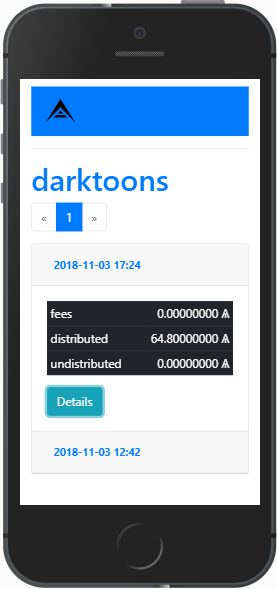
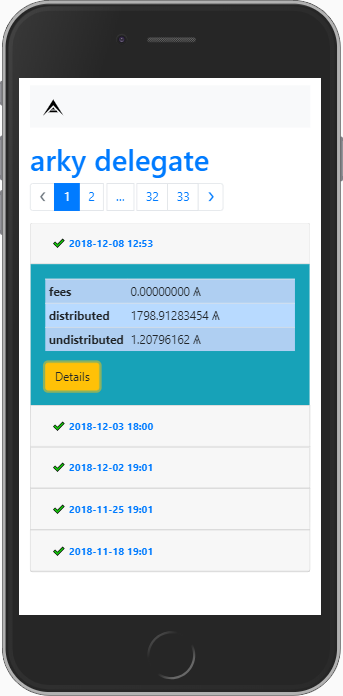
Delphinus release

diff --git a/zen/app/templates/history.html b/zen/app/templates/history.html
@@ -8,7 +8,7 @@
 		
 {%- if page_number > 0 %}
 <div class="container">
-	<h1><a href="/{{username}}">{{ username }}</a></h1>
+	<h1><a href="/{{username}}">{{ username }} delegate</a></h1>
 	<nav aria-label="payroll navigation">
 		<ul class="pagination">
 			<li class="page-item{{' disabled' if curent_page == 0 else ''}}">
@@ -81,7 +81,7 @@
 				>Details</button>
 <!-- Modal -->
 <div class="modal fade" id="details{{ name }}" tabindex="-1" role="dialog" aria-labelledby="modal{{ name }}" aria-hidden="true">
-	<div class="modal-dialog" role="document">
+	<div class="modal-dialog modal-lg" role="document">
 		<div class="modal-content">
 			<div class="modal-header">
 				<h5 class="modal-title" id="modal{{ name }}">Distribution details</h5>

diff --git a/zen/tbw.py b/zen/tbw.py
@@ -94,7 +94,7 @@ def init(**kwargs):
 	elif "usernames" in kwargs:
 		pkeys = []
 		for username in kwargs.pop("usernames", []):
-			req = dposlib.rest.GET.api.v2.delegates(username).get("data", {})
+			req = rest.GET.api.v2.delegates(username).get("data", {})
 			if len(req):
 				pkeys.append(req["publicKey"])
 
@@ -111,6 +111,8 @@ def init(**kwargs):
 		if getPublicKeyFromUsername(username):
 			config = loadJson("%s.json" % username)
 			config.update(**kwargs)
+			if not(config.get("fee_level", True)):
+				config.pop("fee_level", None)
 			dumpJson(config, "%s.json" % username)
 			logMsg("%s delegate set" % username)
 		else:
@@ -125,8 +127,8 @@ def init(**kwargs):
 def setDelegate(pkey, webhook_peer, public=False):
 	printNewLine()
 	# for each publicKey, get account data (merge delegate and wallet info)
-	req = dposlib.rest.GET.api.v2.delegates(pkey).get("data", {})
-	account = dposlib.rest.GET.api.v2.wallets(pkey).get("data", {})
+	req = rest.GET.api.v2.delegates(pkey).get("data", {})
+	account = rest.GET.api.v2.wallets(pkey).get("data", {})
 	account.update(req)
 
 	if account != {}:
@@ -139,7 +141,7 @@ def setDelegate(pkey, webhook_peer, public=False):
 		# create a webhook if no one is set
 		webhook = loadJson("%s-webhook.json" % username)
 		if not webhook.get("token", False):
-			data = dposlib.rest.POST.api.webhooks(
+			data = rest.POST.api.webhooks(
 				peer=webhook_peer,
 				event="block.forged",
 				target="http://%s:5000/block/forged" % (zen.PUBLIC_IP if public else "127.0.0.1"),
@@ -192,13 +194,14 @@ def askSecondSecret(account):
 
 
 def distributeRewards(rewards, pkey, minvote=0, excludes=[]):
-	totalCount, voters = 1, []
-	while len(voters) < totalCount:
-		req = dposlib.rest.GET.api.v2.delegates(pkey, "voters", offset=len(voters))
+	count, pageCount, voters = 0, 1, []
+	while count < pageCount:
+		req = rest.GET.api.v2.delegates(pkey, "voters", page=count+1)
 		if req.get("error", False):
 			raise Exception("Api error occured: %r" % req)
-		totalCount = req["meta"]["totalCount"]
+		pageCount = req["meta"]["pageCount"]
 		voters.extend(req.get("data", []))
+		count += 1
 		
 	voters = dict([v["address"], float(v["balance"])] for v in voters if v["address"] not in excludes and v["balance"] >= minvote)
 	total_balance = sum(voters.values())
@@ -291,19 +294,21 @@ def dumpRegistry(username):
 		for name in [n for n in os.listdir(folder) if n.endswith(".tbw")]:
 			tbw = loadJson(name, folder)
 			amount = tbw["distributed"]
+			fee_covered = (tbw["fees"]/0.1) > len(tbw["weight"])
 
-			registry = OrderedDict()
+			totalFees, registry = 0, OrderedDict()
 			for address, weight in sorted(tbw["weight"].items(), key=lambda e:e[-1], reverse=True):
 				transaction = dposlib.core.transfer(
 					round(amount*weight, 8), address,
 					config.get("vendorField", "%s reward" % username)
 				)
-				transaction.finalize(fee_included=True)
+				transaction.finalize(fee_included=not fee_covered)
+				totalFees += transaction["fee"]
 				registry[transaction["id"]] = transaction
 
 			if config.get("wallet", False):
 				transaction = dposlib.core.transfer(
-					round(tbw["delegate-share"]+tbw["fees"], 8),
+					round(tbw["delegate-share"] + tbw["fees"]-(totalFees if fee_covered else 0), 8),
 					config["wallet"], "%s share" % username
 				)
 				transaction.finalize(fee_included=True)
@@ -328,15 +333,15 @@ def broadcast(username, chunk_size=140):
 
 		for chunk in [transactions[x:x+chunk_size] for x in range(0, len(transactions), chunk_size)]:
 			waitFor(transactions[0]["senderPublicKey"])
-			response = dposlib.rest.POST.api.transactions(transactions=chunk)
+			response = rest.POST.api.transactions(transactions=chunk)
 			logMsg("Broadcasting chunk of transactions...\n%s" % json.dumps(response, indent=2))
-		time.sleep(dposlib.rest.cfg.blocktime)
+		time.sleep(rest.cfg.blocktime)
 
 		tries = 0
 		while len(registry) > 0 and tries < 5:
-			time.sleep(dposlib.rest.cfg.blocktime)
+			time.sleep(rest.cfg.blocktime)
 			for tx in [t for t in transactions if t["id"] in registry]:
-				if dposlib.rest.GET.api.v2.transactions(tx["id"]).get("data", {}).get("confirmations", 0) >= 1:
+				if rest.GET.api.v2.transactions(tx["id"]).get("data", {}).get("confirmations", 0) >= 1:
 					logMsg("transaction %(id)s <type %(type)s> applied" % registry.pop(tx["id"]))
 					cursor.execute(
 						"INSERT OR REPLACE INTO transactions(filename, timestamp, amount, address, id) VALUES(?,?,?,?,?);",
@@ -355,10 +360,10 @@ def broadcast(username, chunk_size=140):
 
 def waitFor(pkey):
 	logMsg("waiting for forger...")
-	rank = 51
+	rank = rest.cfg.delegate
 	while rank > 0:
-		time.sleep(16 if rank > 3 else 1)
-		try: forging_queue = rest.GET.api.v1.delegates.getNextForgers(limit=51).get("delegates", [])
+		time.sleep(2*rest.cfg.blocktime if rank > 3 else 1)
+		try: forging_queue = rest.GET.api.v1.delegates.getNextForgers(limit=rest.cfg.delegate).get("delegates", [])
 		except: break
 		try: rank = forging_queue.index(pkey)
 		except ValueError: break

diff --git a/zen/app/__init__.py b/zen/app/__init__.py
@@ -21,25 +21,28 @@ def connect(username):
 
 @app.route("/")
 def index():
-	usernames = [name.split("-")[0] for name in os.listdir(os.path.join(zen.JSON)) if name.endswith("-webhook.json")]
+	usernames = [name.split("-")[0] for name in os.listdir(zen.JSON) if name.endswith("-webhook.json")]
 	accounts = [dposlib.rest.GET.api.v2.delegates(username, returnKey="data") for username in usernames]
 	return flask.render_template("index.html", accounts=[a for a in accounts if a.get("username", False)])
 
 
 @app.route("/<string:username>")
 def delegate_index(username):
-	if username == "favicon.ico":
-		return ""
-	forgery = zen.loadJson("%s.forgery" % username, os.path.join(zen.DATA, username))
-	forgery["contributions"] = OrderedDict(sorted([item for item in forgery["contributions"].items()], key=lambda i:i[-1], reverse=True))
+	if username not in [name.split("-")[0] for name in os.listdir(zen.JSON) if name.endswith("-webhook.json")]:
+		return "", 400
+
 	config = zen.loadJson("%s.json" % username)
 	config.pop("#1", False)
 	config.pop("#2", False)
+	forgery = zen.loadJson("%s.forgery" % username, os.path.join(zen.DATA, username))
+	forgery["contributions"] = OrderedDict(sorted([item for item in forgery["contributions"].items()], key=lambda i:i[-1], reverse=True))
 	return flask.render_template("delegate.html", username=username, forgery=forgery, config=config)
 
 
 @app.route("/<string:username>/history/<int:page>/<int:n>")
 def zen_history(username, page, n):
+	if username not in [name.split("-")[0] for name in os.listdir(zen.JSON) if name.endswith("-webhook.json")]:
+		return "", 400
 	
 	cursor = connect(username)
 	history_folder = os.path.join(zen.ROOT, "app", ".tbw", username, "history")
@@ -72,6 +75,9 @@ def zen_history(username, page, n):
 
 @app.route("/<string:username>/history/<int:page>/<int:n>/<string:item>")
 def zen_details(username, page, n, item):
+	if username not in [name.split("-")[0] for name in os.listdir(zen.JSON) if name.endswith("-webhook.json")]:
+		return "", 400
+
 	cursor = connect(username)
 	details = cursor.execute("SELECT * FROM transactions WHERE filename = ?", (item,)).fetchall()
 

diff --git a/zen/app/core.py b/zen/app/core.py
@@ -84,7 +84,7 @@ def spread():
 				if blk["id"] == last_block["id"] or blk["timestamp"]["epoch"] < last_block["timestamp"]:
 					break
 				else:
-					logMsg("    getting reward from block %s..." % blk["id"])
+					logMsg("    getting rewards and fees from block %s..." % blk["id"])
 					rewards += float(blk["forged"]["reward"])/100000000.
 					fees += float(blk["forged"]["fee"])/100000000.
 					blocks += 1
@@ -103,7 +103,6 @@ def spread():
 		excludes = forger.get("excludes", [address])
 		if address not in excludes:
 			excludes.append(address)
-
 		contributions = zen.tbw.distributeRewards(
 			rewards,
 			generatorPublicKey,

diff --git a/README.md b/README.md
@@ -98,9 +98,13 @@ crontab -e
  - [x] custom peer management
 
 ### Cassiopeia (v1.3.1)
- - [x] reward distribution bugFix
+ - [x] reward distribution bugfix
+
+### Delphinus (v1.4.0)
+ - [x] automatic fee coverage
+ - [x] transaction history rebuild
+ - [x] delegate targetting
 
 ### TODO (dev version)
-
  - [ ] fork sensor
  - [ ] auto-rollback
